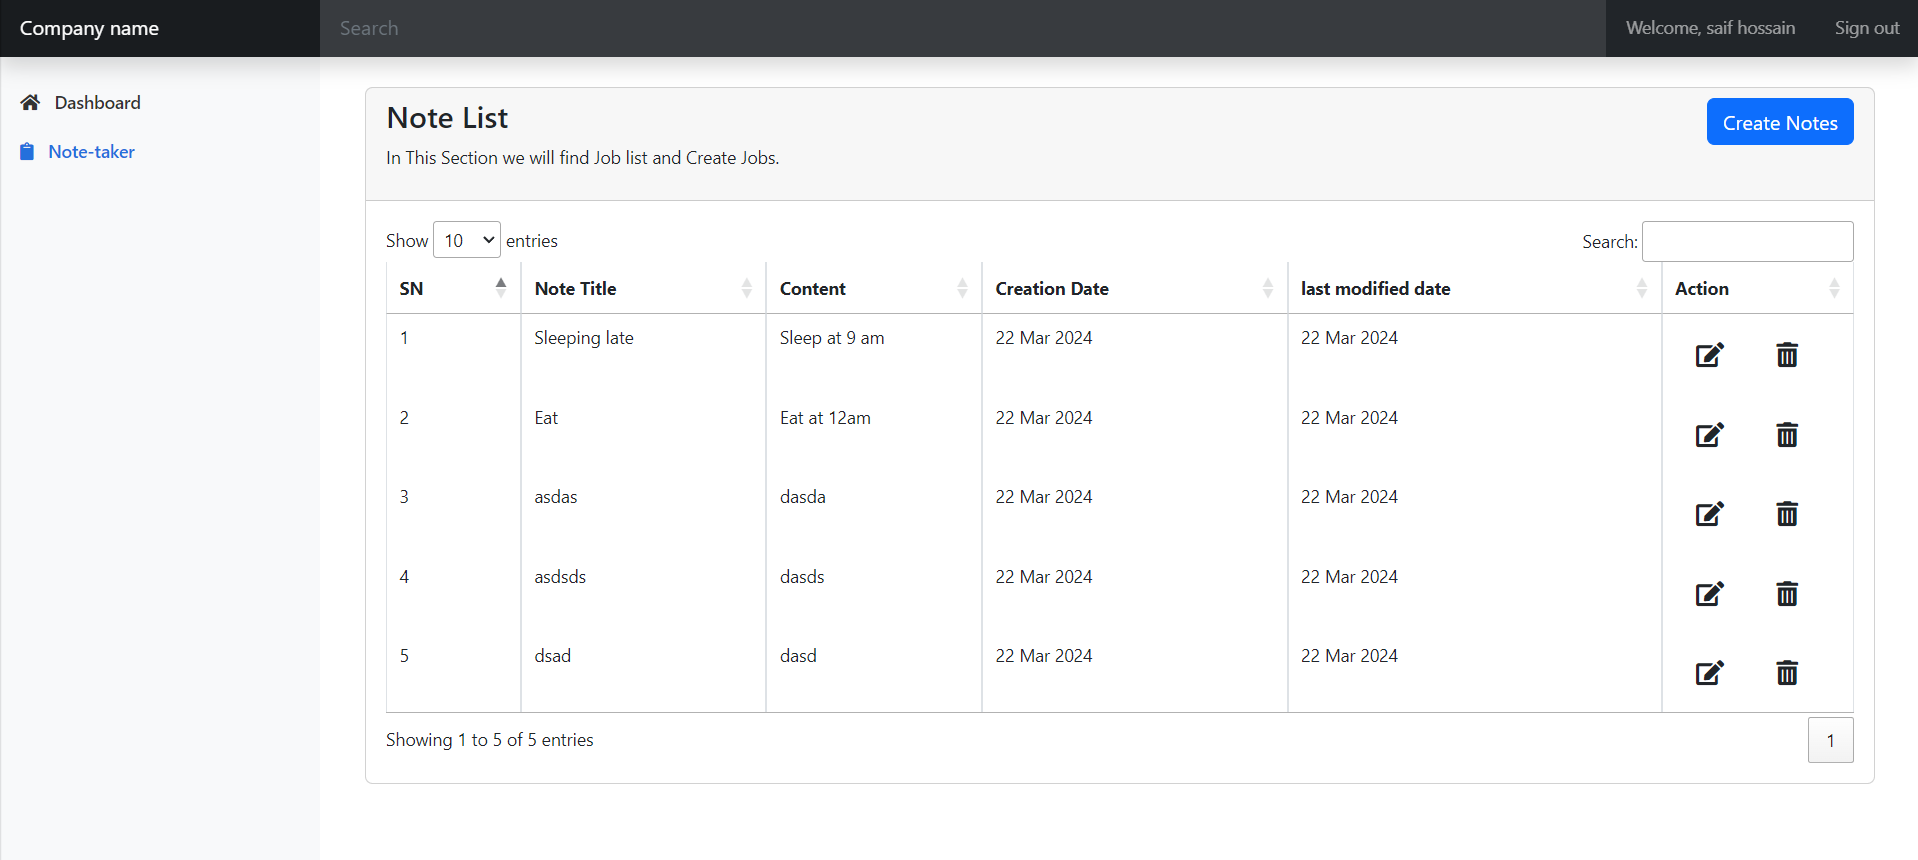
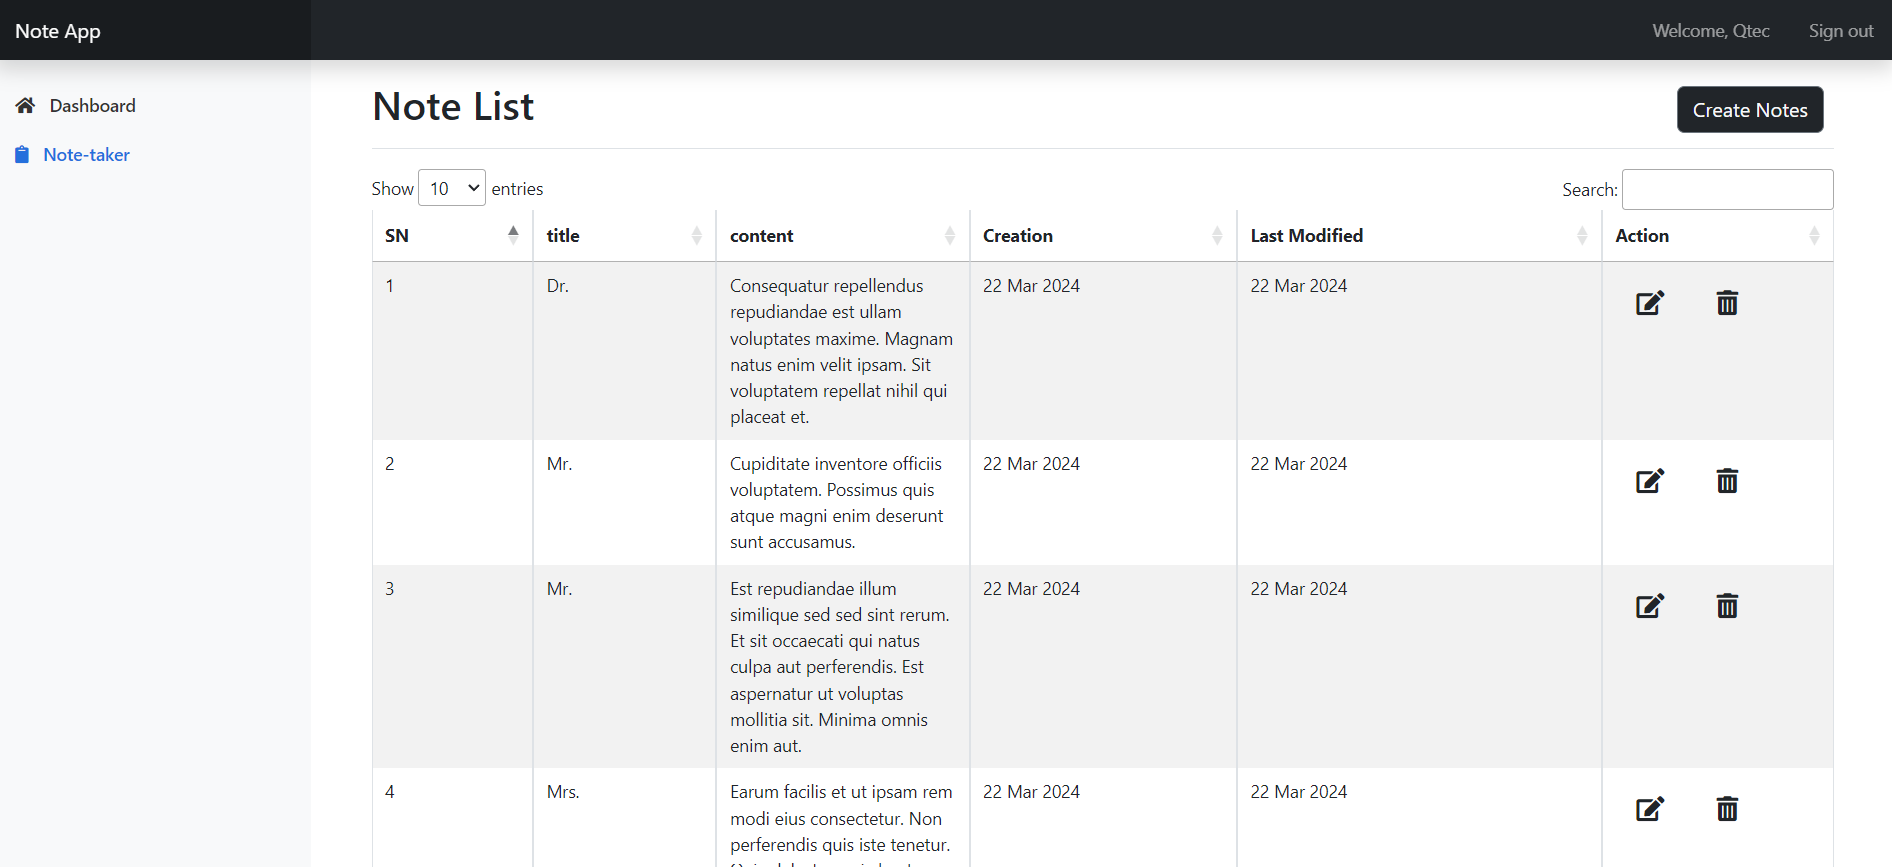
fix issue with note table

diff --git a/resources/views/notes-page.blade.php b/resources/views/notes-page.blade.php
@@ -1,58 +1,46 @@
 @extends('layouts.home')
 
 @section('contents')
-
-    <div class="container-fluid pt-4">
-
+    <div class="container-fluid">
         <div class="row">
-            <div class="col-12">
-                <div class="card">
-                    <div class="card-header d-flex justify-content-between ">
-                        <div >
-                            <h4 class="card-title">Note List</h4>
-                            <p class="card-title-desc">In This Section we will find Job list and Create Jobs.
-                            </p>
-                        </div>
-                        <div><a href="{{url('/note-create')}}"><button class="btn btn-primary">Create Notes</button></a></div>
-                    </div>
-                    <div class="card-body">
-
-                        <div id="datatable_wrapper" class="dataTables_wrapper dt-bootstrap4 no-footer">
-
-                            <div class="row">
-                                <div class="col-sm-12">
-                                    <table id="tableData"
-                                           class="table table-bordered dt-responsive nowrap w-100 dataTable no-footer dtr-inline dataTable-wrapper"
-                                           style="width: 1573px;">
-                                        <thead>
-                                        <tr>
-                                            <th>SN</th>
-                                            <th>Note Title</th>
-                                            <th>Content</th>
-                                            <th>Creation Date</th>
-                                            <th>last modified date</th>
-
-                                            <th>Action
-                                            </th>
-
-                                        </tr>
-                                        </thead>
 
 
-                                        <tbody id="tableList">
-
-                                        </tbody>
-                                    </table>
-                                </div>
-                            </div>
+            <main class="col-md-12 ms-sm-auto col-lg-12 px-md-4">
+                <div class="d-flex justify-content-between flex-wrap flex-md-nowrap align-items-center pt-3 pb-2 mb-3 border-bottom">
+                    <h1 class="h2">Note List</h1>
+                    <div class="btn-toolbar mb-2 mb-md-0">
+                        <div class="btn-group me-2">
+                       <a href="{{route('notes.create')}}">    <button type="button" class="btn btn-dark btn-outline-secondary text-light">Create Notes</button></a>
 
                         </div>
-                    </div>
 
+                    </div>
                 </div>
-            </div>
-        </div> <!-- end col -->
-    </div> <!-- end row -->
+
+
+{{--                <h2>Section title</h2>--}}
+                <div class="table-responsive">
+                    <table class="table table-striped table-sm table-bordered" id="tableData">
+                        <thead>
+                        <tr>
+                            <th scope="col">SN</th>
+                            <th scope="col">title</th>
+                            <th scope="col">content</th>
+                            <th scope="col">Creation</th>
+                            <th scope="col">Last Modified</th>
+                            <th scope="col">Action</th>
+                        </tr>
+                        </thead>
+                        <tbody id="tableList">
+
+
+                        </tbody>
+                    </table>
+                </div>
+            </main>
+        </div>
+    </div>
+
 
 {{--  Update Modal  --}}
     <div class="modal animated zoomIn" id="update-modal" tabindex="-1" aria-labelledby="exampleModalLabel"
@@ -128,8 +116,8 @@
                     $('#tableList').empty();
                     jobList.forEach(function (item, i) {
                         let foreach = ` <tr class="odd">
-                                            <td class="dtr-control sorting_1" tabindex="0">${i + 1}</td>
-                                            <td class="dtr-control sorting_1" tabindex="0">${item['title']}</td>
+                                            <td >${i + 1}</td>
+                                            <td >${item['title']}</td>
                                             <td>${item['content']}</td>
                                             <td>${item['formatted_created_at']}</td>
                                             <td>${item['formatted_modified_at']}</td>

diff --git a/resources/views/layouts/home.blade.php b/resources/views/layouts/home.blade.php
@@ -84,11 +84,11 @@
 <body>
 
 <header class="navbar navbar-dark sticky-top bg-dark flex-md-nowrap p-0 shadow">
-    <a class="navbar-brand col-md-3 col-lg-2 me-0 px-3 fs-6" href="#">Company name</a>
+    <a class="navbar-brand col-md-3 col-lg-2 me-0 px-3 fs-6" href="#">Note App</a>
     <button class="navbar-toggler position-absolute d-md-none collapsed" type="button" data-bs-toggle="collapse" data-bs-target="#sidebarMenu" aria-controls="sidebarMenu" aria-expanded="false" aria-label="Toggle navigation">
         <span class="navbar-toggler-icon"></span>
     </button>
-    <input class="form-control form-control-dark w-100 rounded-0 border-0" type="text" placeholder="Search" aria-label="Search">
+{{--    <input class="form-control form-control-dark w-100 rounded-0 border-0" type="text" placeholder="Search" aria-label="Search">--}}
     <div class="navbar-nav">
         <div class="nav-item text-nowrap d-flex">
             <a class="nav-link px-3" href="#">Welcome, {{Auth::user()->name ?? 'Guest'}}</a>
